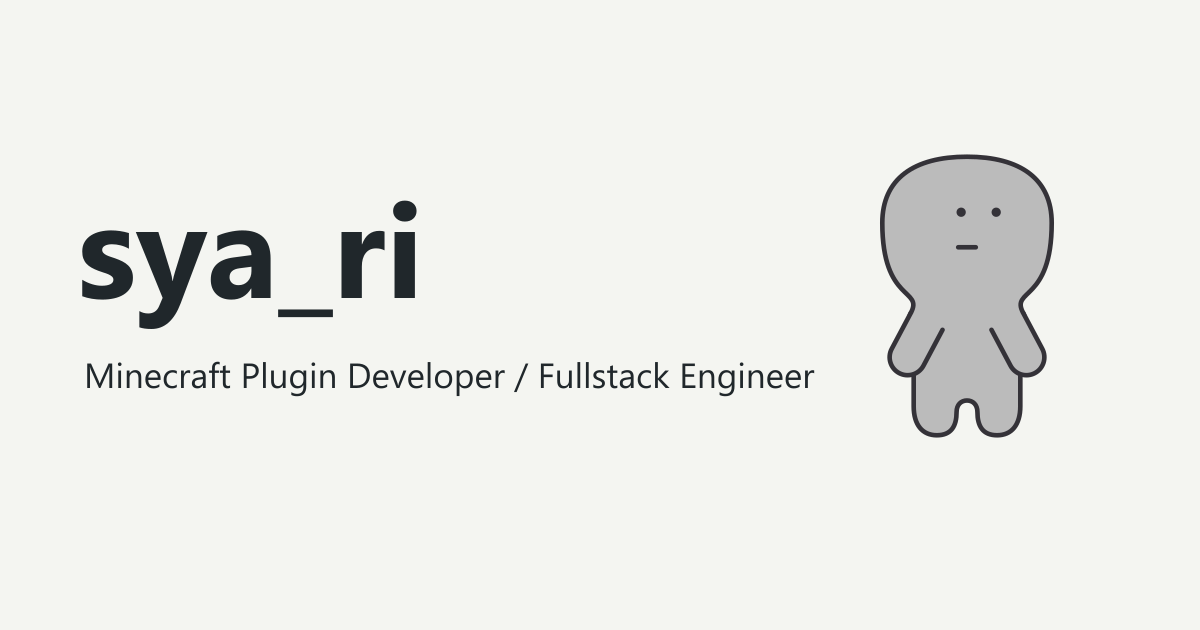
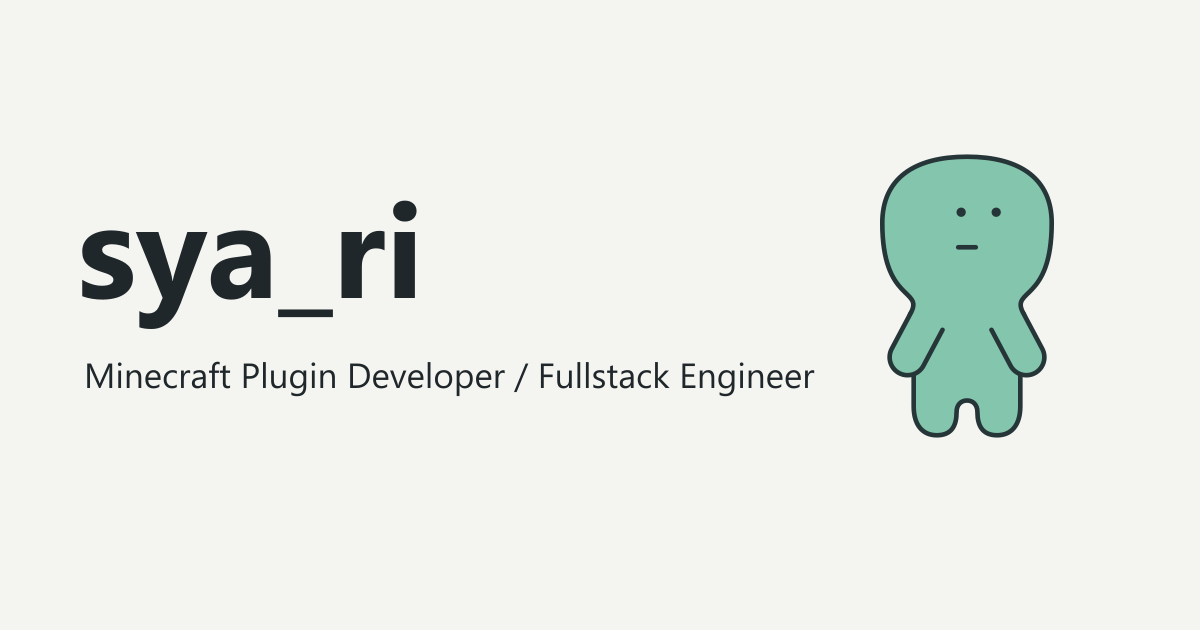
style: update the default character palette and gallery spacing
Use the mint portrait and skin across the site and sharing images. Render
the player without a ground shadow or seams between coplanar limbs.
Enlarge project previews and separate library examples from their output.

Changed region(s): [[0.74, 0.2413, 0.8942, 0.6937]]

diff --git a/src/scripts/gallery.js b/src/scripts/gallery.js
@@ -4,6 +4,7 @@ const reader = root.querySelector(".reader"),
 const preference = matchMedia("(prefers-reduced-motion: reduce)");
 
 const colors = [
+  ["mint", "mint"],
   ["silver", "silver"],
   ["blue", "blue"],
   ["teal", "teal"],
@@ -38,7 +39,6 @@ function cycleCoat() {
 }
 colorButtons.forEach((button) => button.addEventListener("click", cycleCoat));
 
-player.style.setProperty("--atlas", 'url("/images/shari-mask.png")');
 const unit = 3.125;
 const px = (n) => n * unit + "px";
 const make = (parent, cls) => {
@@ -47,53 +47,40 @@ const make = (parent, cls) => {
   parent.append(el);
   return el;
 };
-function shell(joint, w, h, d, u, v, extra) {
-  const box = make(joint, "cube");
-  const width = w + extra,
-    height = h + extra,
-    depth = d + extra;
-  Object.assign(box.style, {
-    left: px(-extra / 2),
-    top: px(-extra / 2),
-    width: px(width),
-    height: px(height),
-  });
-  function face(fw, fh, tw, th, x, y, rotation, z, shade) {
-    const f = make(box, "face");
-    Object.assign(f.style, {
-      width: px(fw),
-      height: px(fh),
-      left: px((width - fw) / 2),
-      top: px((height - fh) / 2),
-      transform: rotation + " translateZ(" + px(z / 2) + ")",
-      backgroundSize: px((64 * fw) / tw) + " " + px((64 * fh) / th),
-      backgroundPosition: px((-x * fw) / tw) + " " + px((-y * fh) / th),
-      filter: "brightness(calc(" + shade + " * var(--limb-light, 1)))",
-    });
-    f.style.maskSize = f.style.backgroundSize;
-    f.style.maskPosition = f.style.backgroundPosition;
-  }
-  face(width, height, w, h, u + d, v + d, "rotateY(0deg)", depth, 1);
-  face(depth, height, d, h, u + d + w, v + d, "rotateY(90deg)", width, 0.82);
-  face(depth, height, d, h, u, v + d, "rotateY(-90deg)", width, 0.89);
-  face(width, height, w, h, u + 2 * d + w, v + d, "rotateY(180deg)", depth, 0.82);
-  face(width, depth, w, d, u + d, v, "rotateX(90deg)", height, 1.05);
-  face(width, depth, w, d, u + d + w, v, "rotateX(-90deg)", height, 0.76);
-}
-function part(x, y, w, h, d, uv, outer, extra) {
+// The skin has an opaque base and no outer layer.
+function part(x, y, w, h, d, u, v) {
   const joint = make(player, "joint");
   Object.assign(joint.style, { left: px(x), top: px(y), width: px(w), height: px(h) });
-  shell(joint, w, h, d, ...uv, 0);
-  shell(joint, w, h, d, ...outer, extra);
+
+  function face(fw, fh, tx, ty, rotation, depth, light) {
+    const surface = make(joint, "face");
+    Object.assign(surface.style, {
+      width: px(fw),
+      height: px(fh),
+      left: px((w - fw) / 2),
+      top: px((h - fh) / 2),
+      // A small overlap keeps subpixel gaps from exposing the page between faces.
+      transform: rotation + " translateZ(" + px(depth / 2) + ") scale(1.012)",
+      backgroundSize: px(64) + " " + px(64),
+      backgroundPosition: px(-tx) + " " + px(-ty),
+      filter: "brightness(" + light + ")",
+    });
+  }
+  face(w, h, u + d, v + d, "rotateY(0deg)", d, 1);
+  face(d, h, u + d + w, v + d, "rotateY(90deg)", w, 0.82);
+  face(d, h, u, v + d, "rotateY(-90deg)", w, 0.89);
+  face(w, h, u + 2 * d + w, v + d, "rotateY(180deg)", d, 0.82);
+  face(w, d, u + d, v, "rotateX(90deg)", h, 1.05);
+  face(w, d, u + d + w, v, "rotateX(-90deg)", h, 0.76);
   return joint;
 }
-const head = part(4, 0, 8, 8, 8, [0, 0], [32, 0], 0.68);
+const head = part(4, 0, 8, 8, 8, 0, 0);
 head.style.transformOrigin = "50% 100%";
-part(4, 8, 8, 12, 4, [16, 16], [16, 32], 0.3);
-const rightArm = part(0, 8, 4, 12, 4, [40, 16], [40, 32], 0.3);
-const leftArm = part(12, 8, 4, 12, 4, [32, 48], [48, 48], 0.3);
-const rightLeg = part(4, 20, 4, 12, 4, [0, 16], [0, 32], 0.26);
-const leftLeg = part(8, 20, 4, 12, 4, [16, 48], [0, 48], 0.26);
+part(4, 8, 8, 12, 4, 16, 16);
+const rightArm = part(0, 8, 4, 12, 4, 40, 16);
+const leftArm = part(12, 8, 4, 12, 4, 32, 48);
+const rightLeg = part(4, 20, 4, 12, 4, 0, 16);
+const leftLeg = part(8, 20, 4, 12, 4, 16, 48);
 const wingLeft = make(player, "elytra wing-left"),
   wingRight = make(player, "elytra wing-right");
 for (const wing of [wingLeft, wingRight]) make(wing, "wing-core");
@@ -201,10 +188,6 @@ function pose() {
   leftLeg.style.transform =
     "translateY(" + (passing > 0 ? -lift : 0) + "px) rotateX(" + stride * 34 + "deg)";
   const facing = yaw / profileAngle;
-  for (const limb of [rightArm, rightLeg])
-    limb.style.setProperty("--limb-light", 0.95 + 0.05 * facing);
-  for (const limb of [leftArm, leftLeg])
-    limb.style.setProperty("--limb-light", 0.95 - 0.05 * facing);
   if (!idle)
     head.style.transform = "rotateX(" + 84 * glide + "deg) rotateY(" + headTurn * facing + "deg)";
 }

diff --git a/src/styles/portfolio.css b/src/styles/portfolio.css
@@ -205,7 +205,6 @@ button:focus-visible,
   width: 100%;
   height: auto;
   --body: var(--coat);
-  --outline: var(--graphite);
 }
 [data-coat="blue"] .portrait-switch g[data-fill="outline"] {
   --outline: light-dark(var(--chalk), var(--graphite));
@@ -264,13 +263,14 @@ button:focus-visible,
   margin-top: 0.65em;
 }
 .library-description {
+  margin-block: 12px 18px;
   max-width: 74ch;
 }
 .project-preview {
   display: block;
   justify-self: start;
   width: 100%;
-  max-width: 350px;
+  max-width: 525px;
   height: auto;
   object-fit: contain;
   border-radius: 3px;
@@ -282,14 +282,11 @@ button:focus-visible,
 .examples {
   display: grid;
   align-items: start;
-  gap: clamp(16px, 3vw, 40px);
+  grid-template-columns: minmax(0, 1fr);
+  gap: 24px;
   min-width: 0;
 }
-.examples.paired {
-  grid-template-columns: minmax(0, 1.5fr) minmax(0, 1fr);
-}
-.examples.stacked {
-  grid-template-columns: minmax(0, 1fr);
+#strata .examples {
   gap: 8px;
 }
 .stacked .example-image {
@@ -310,7 +307,7 @@ button:focus-visible,
   max-width: 510px;
 }
 .work.library {
-  gap: 12px;
+  gap: 0;
 }
 .code-pane {
   min-width: 0;
@@ -341,12 +338,8 @@ button:focus-visible,
   overflow-wrap: normal;
 }
 @media (max-width: 650px) {
-  .examples.paired {
-    grid-template-columns: minmax(0, 1fr);
-  }
   .project-preview {
-    width: 78%;
-    max-width: 300px;
+    max-width: 450px;
   }
   .example-image {
     padding-top: 0;

diff --git a/src/styles/runner.css b/src/styles/runner.css
@@ -67,6 +67,9 @@
   white-space: nowrap;
 }
 #portfolio {
+  --coat: #84c5ad;
+}
+#portfolio[data-coat="silver"] {
   --coat: light-dark(#727a80, #c8cfd3);
 }
 #portfolio[data-coat="blue"] {
@@ -90,15 +93,6 @@
   width: 0;
   height: 0;
 }
-#portfolio .shade {
-  position: absolute;
-  width: 38px;
-  height: 3px;
-  left: -19px;
-  top: -2px;
-  border-radius: 50%;
-  background: color-mix(in srgb, var(--ink) 20%, transparent);
-}
 #portfolio .player {
   position: absolute;
   bottom: 2px;
@@ -108,12 +102,9 @@
   transform-style: preserve-3d;
   transform-origin: 50% 96%;
 }
-#portfolio .joint,
-#portfolio .cube {
+#portfolio .joint {
   position: absolute;
   transform-style: preserve-3d;
-}
-#portfolio .joint {
   transform-origin: 50% 0;
 }
 #portfolio .face {
@@ -123,7 +114,4 @@
   background-color: var(--coat);
   background-image: url("/images/shari-skin.png");
   background-repeat: no-repeat;
-  mask-image: var(--atlas);
-  mask-mode: alpha;
-  mask-repeat: no-repeat;
 }

diff --git a/api/icon.js b/api/icon.js
@@ -26,8 +26,8 @@ export default async function icon(request, response) {
   const [, body, eye, background, extension] = match;
   const png = extension.toLowerCase() === "png";
   const svg = artwork
-    .replaceAll("var(--body,#bbbbbb)", `#${body}`)
-    .replaceAll("var(--outline,#343238)", `#${eye}`)
+    .replace(/var\(--body,#[\da-f]{6}\)/gi, `#${body}`)
+    .replace(/var\(--outline,#[\da-f]{6}\)/gi, `#${eye}`)
     .replace("var(--icon-bg,none)", background ? `#${background}` : "none");
 
   response.setHeader("Content-Type", png ? "image/png" : "image/svg+xml; charset=utf-8");

diff --git a/src/data/portfolio.ts b/src/data/portfolio.ts
@@ -29,7 +29,7 @@ export type Example =
     };
 export interface Library extends Work {
   description: string;
-  layout?: "paired" | "stacked";
+  layout?: "stacked";
   examples: Example[];
 }
 
@@ -135,7 +135,6 @@ export const libraries: Library[] = [
   {
     slug: "ktconfig",
     name: "ktConfig",
-    layout: "paired",
     github: "https://github.com/sya-ri/ktConfig",
     description:
       "Define your settings once in a Kotlin data class. ktConfig reads and writes the matching YAML for Bukkit plugins and Fabric mods.",

diff --git a/README.md b/README.md
@@ -26,7 +26,7 @@ The order of the entries in `src/data/portfolio.ts` sets their order on the site
 
 Request `/icon-BODY-EYE[-BACKGROUND].svg` or `.png` with three- or six-digit hex colors and no leading `#`. The first color fills the body. The second colors the eyes, mouth, and outline. Omit the third color for transparency.
 
-- `/icon-bbb-343238.svg` returns the original gray character on a transparent background.
+- `/icon-84c5ad-253538.svg` returns the default mint character on a transparent background.
 - `/icon-84c5ad-253538-fff.png` returns a mint character on white.
 
 SVGs use the original 800 × 800 viewBox. PNGs match the supplied artwork at 750 × 750 with transparency and 1600 × 1600 with a background. Run `pnpm dev` to try the icon URLs locally.
